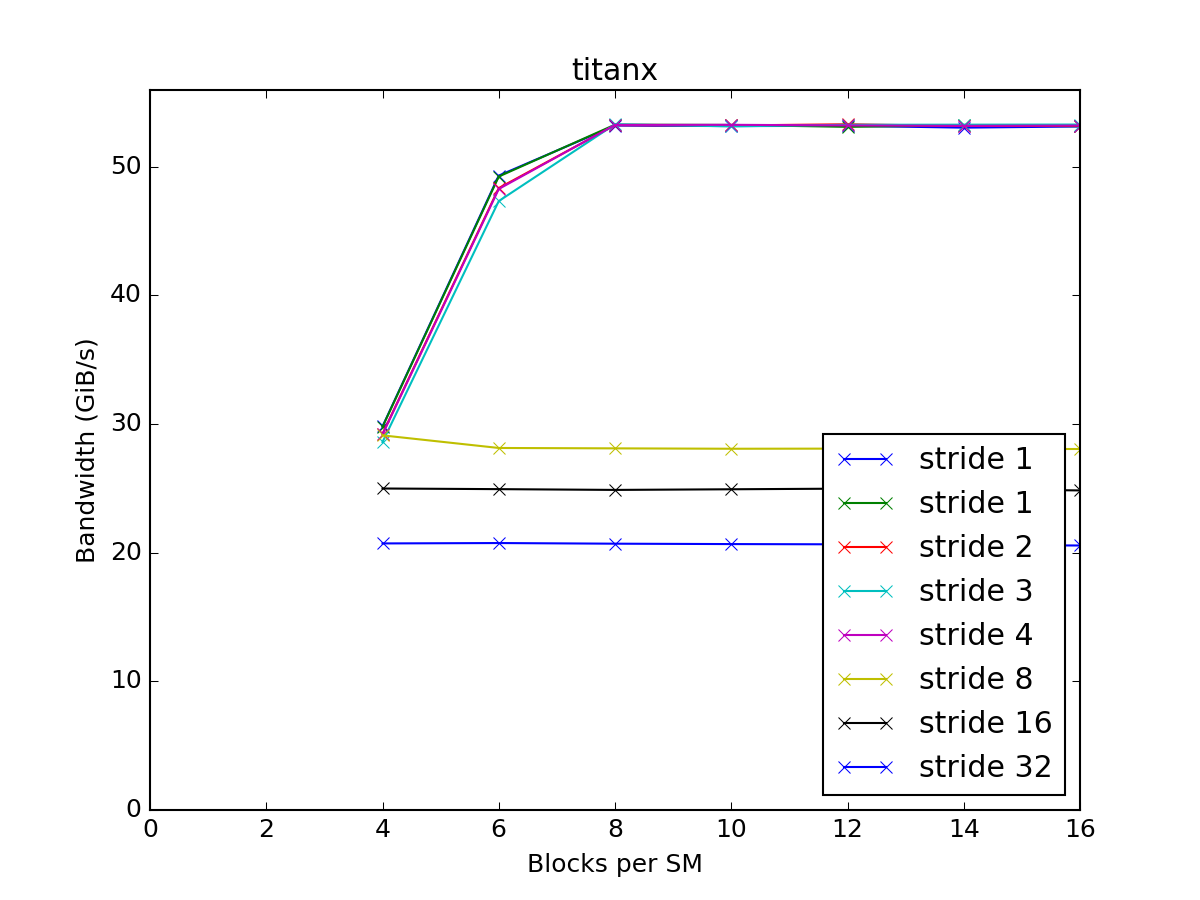
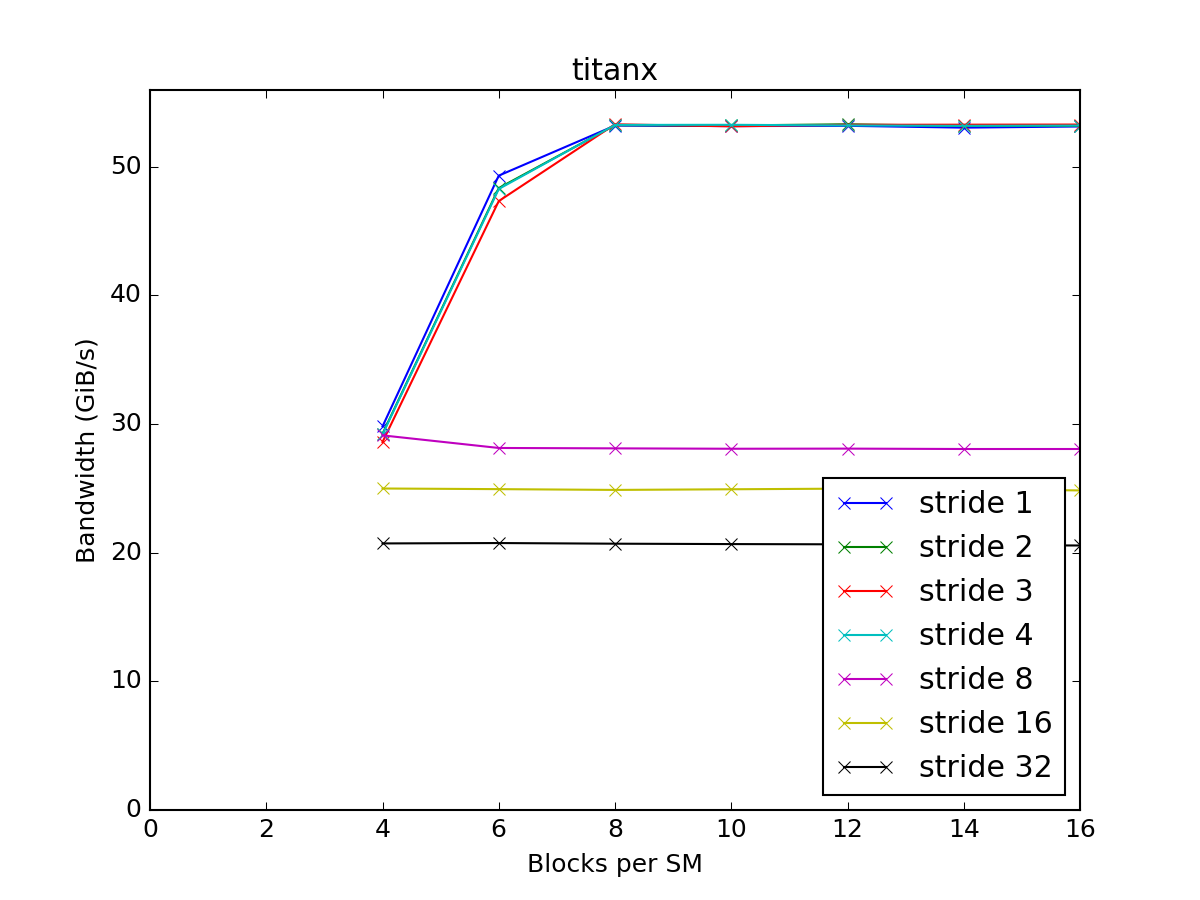
correct varystride on titanx graph a bit

diff --git a/gpuexperiments/globalwrite_graphs.py b/gpuexperiments/globalwrite_graphs.py
@@ -54,8 +54,8 @@ def varyilp():
             ilp = getNameValue(timeinfo['name'], 'ilp', 1)
             stride = getNameValue(timeinfo['name'], 'stride', 1)
             # ilp = int(timeinfo['name'].split('_')[1].replace('ilp', ''))
-        layout = getNameValue(timeinfo['name'], 'l', '1')
-        if layout != '1':
+        layout = getNameValue(timeinfo['name'], 'l', 1)
+        if layout != 1:
             continue
         if family != lastFamily:
             list_idx += 1
@@ -106,6 +106,8 @@ def varystride():
         ilp = int(getNameValue(name, 'ilp', 1))
         # print('ilp', ilp)
         if ilp != 1:
+            continue
+        if layout != 1:
             continue
         # print('ilp', ilp)
         stride = int(getNameValue(name, 'stride', 1))
